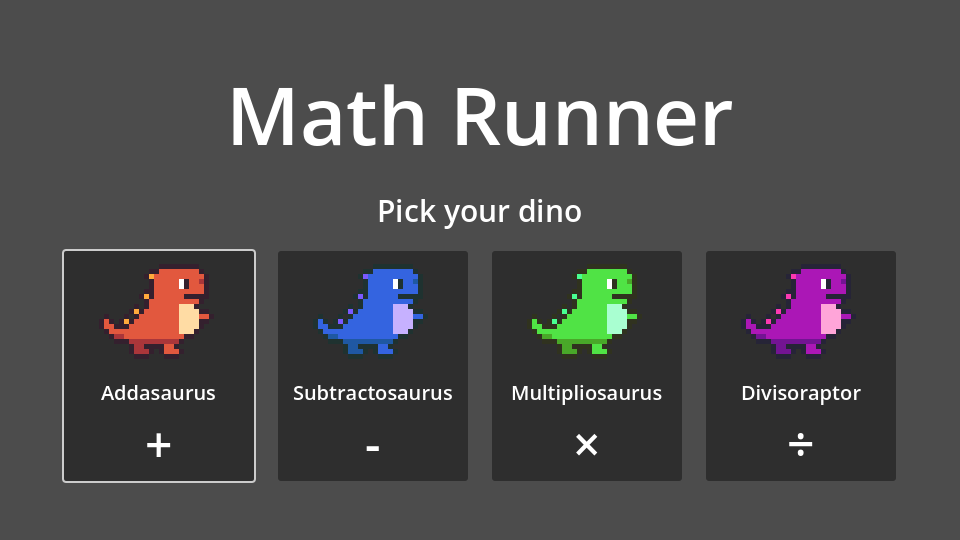
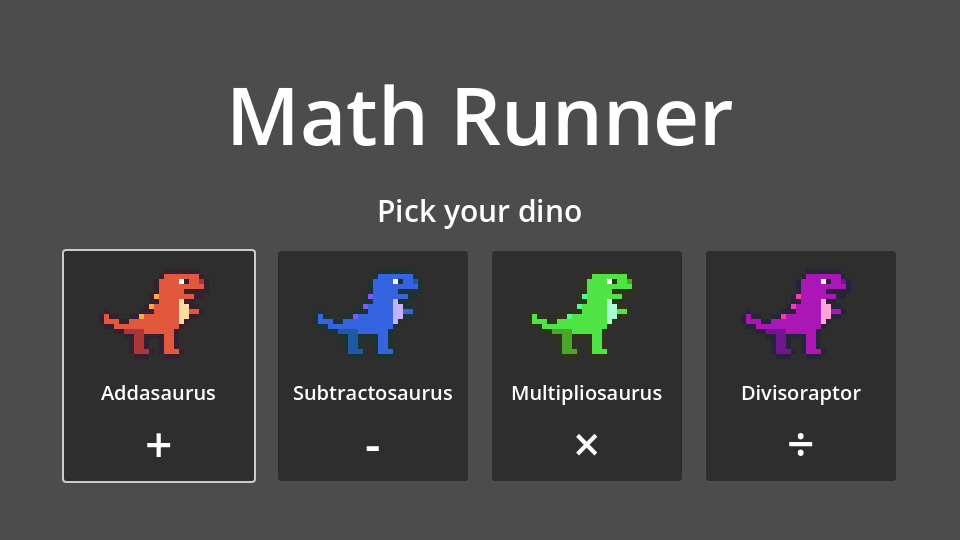
Make the dino slimmer
A leaner body, a smaller head and longer legs. Regenerated the sprite
sheet, the life icons and the app icon with tools/make_assets.py, and
retook the README screenshots.

diff --git a/tools/make_assets.py b/tools/make_assets.py
@@ -56,25 +56,24 @@ UPPER = [
     "........................",
     "........................",
     "........................",
-    "............bbbbbbbb....",
-    "..........sbbbbbbbbbb...",
-    "...........bbbbbwobbd...",
-    "...........bbbbbwobbb...",
-    "...........bbbbbbbbbb...",
-    ".........s.bbbbbboooo...",
-    "..........bbbbbbbbbb....",
-    "..........bbbbbbccc.....",
-    ".......s.bbbbbbbcccc....",
-    "........bbbbbbbbccccbb..",
-    ".b...s.bbbbbbbbbcccc....",
-    ".bb...bbbbbbbbbbcccc....",
-    "..bbbbbbbbbbbbbbccc.....",
-    "...ddbbbbbbbbbbbb.......",
-    "......dddddddddd........",
+    "........................",
+    ".............bbbbbbb....",
+    "............bbbbwobbd...",
+    "............bbbbbbbbb...",
+    "............bbbbboooo...",
+    "...........sbbbbbbb.....",
+    "............bbbbc.......",
+    "..........sbbbbbcc......",
+    "...........bbbbbccbb....",
+    ".b......sbbbbbbbcc......",
+    ".bbb..bbbbbbbbbbc.......",
+    "...bbbbbbbbbbbbb........",
+    ".....ddddbbbbbb.........",
 ]
-HEAD_ROWS = range(3, 10)  # the rows of UPPER that make up the head
-HEAD_FIRST_COLUMN = 10
-LEG_ROW = 18              # first row of the legs when standing
+HEAD_ROWS = range(4, 9)   # the rows of UPPER that make up the head
+HEAD_FIRST_COLUMN = 11
+LEG_ROW = 16              # first row of the legs when standing
+LEG_LENGTH = 4
 NEAR_LEG_X = 11           # hip position; dx moves a leg forwards or backwards
 FAR_LEG_X = 9
 
@@ -90,10 +89,10 @@ def put(grid, x, y, char):
 
 def draw_leg(grid, x, char, lifted):
     top = LEG_ROW - (1 if lifted else 0)
-    for dx in (0, 1):
-        put(grid, x + dx, top, char)
-        put(grid, x + dx, top + 1, char)
-    put(grid, x + 2, top + 1, char)  # the foot points forwards
+    for row in range(top, top + LEG_LENGTH):
+        put(grid, x, row, char)
+        put(grid, x + 1, row, char)
+    put(grid, x + 2, top + LEG_LENGTH - 1, char)  # the foot points forwards
 
 
 def add_outline(grid):
